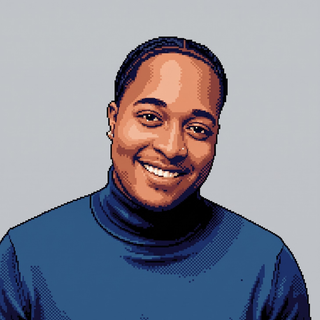
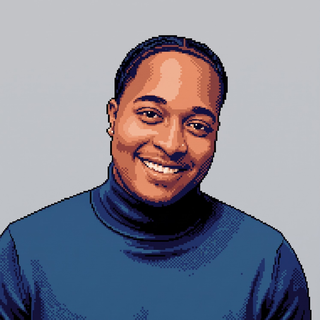
Nouvelle photo pixel art et section Performances avec les scores Lighthouse

Changed region(s): [[0.0, 0.0938, 1.0, 1.0], [0.4062, 0.9688, 0.4688, 1.0], [0.0938, 0.8125, 0.125, 0.8438]]

diff --git a/src/content.config.ts b/src/content.config.ts
@@ -164,6 +164,21 @@ const configuration = defineCollection({
     }),
 
     /**
+     * Lighthouse scores of the deployed site, shown on the homepage.
+     */
+    lighthouse: z.object({
+      title: z.string(),
+      intro: z.string(),
+      labels: z.array(z.string()),
+      rows: z.array(
+        z.object({
+          label: z.string(),
+          scores: z.array(z.number().int().min(0).max(100)),
+        }),
+      ),
+    }),
+
+    /**
      * The personal information of the site owner or author.
      */
     personal: z.object({
